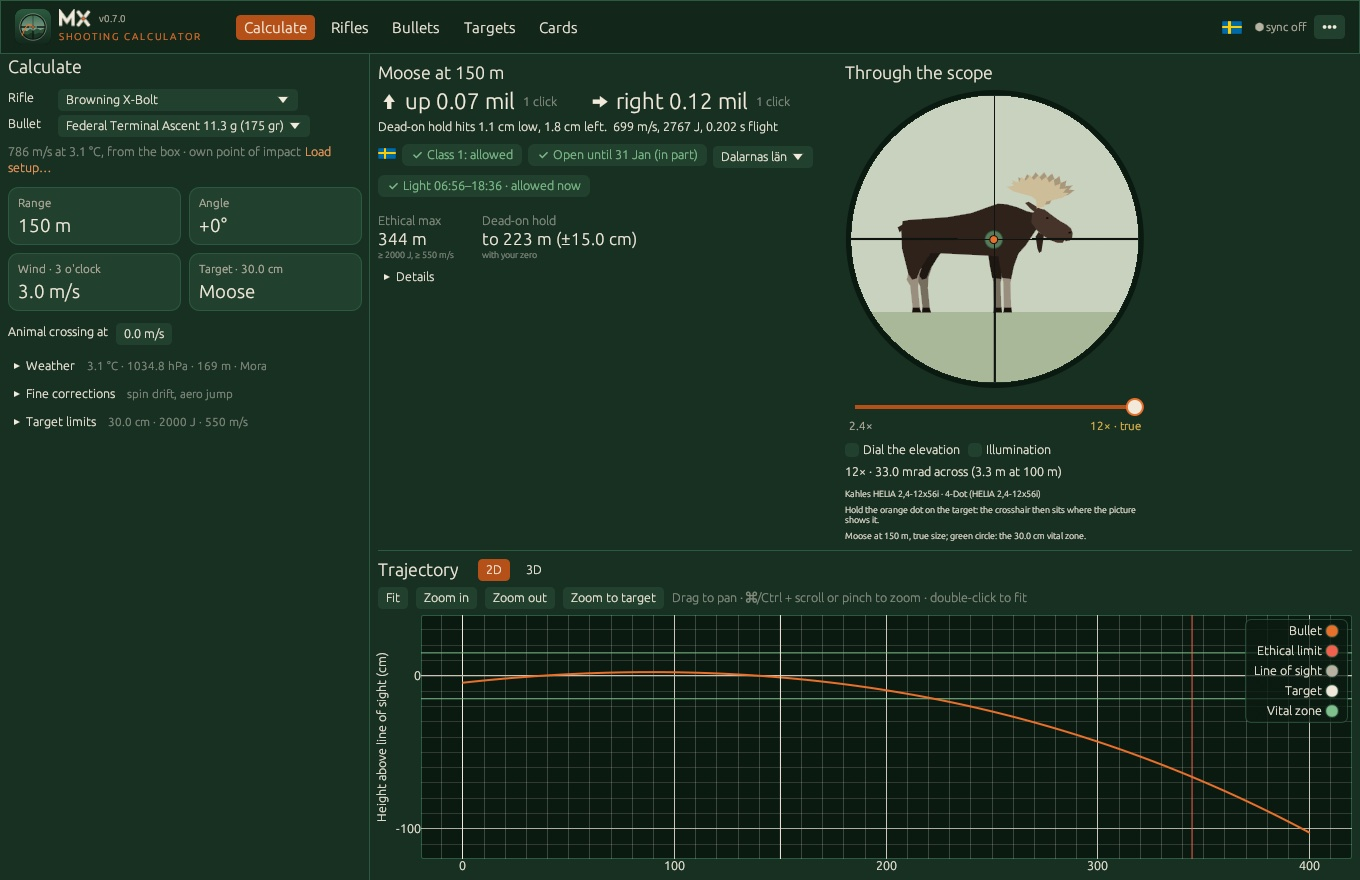
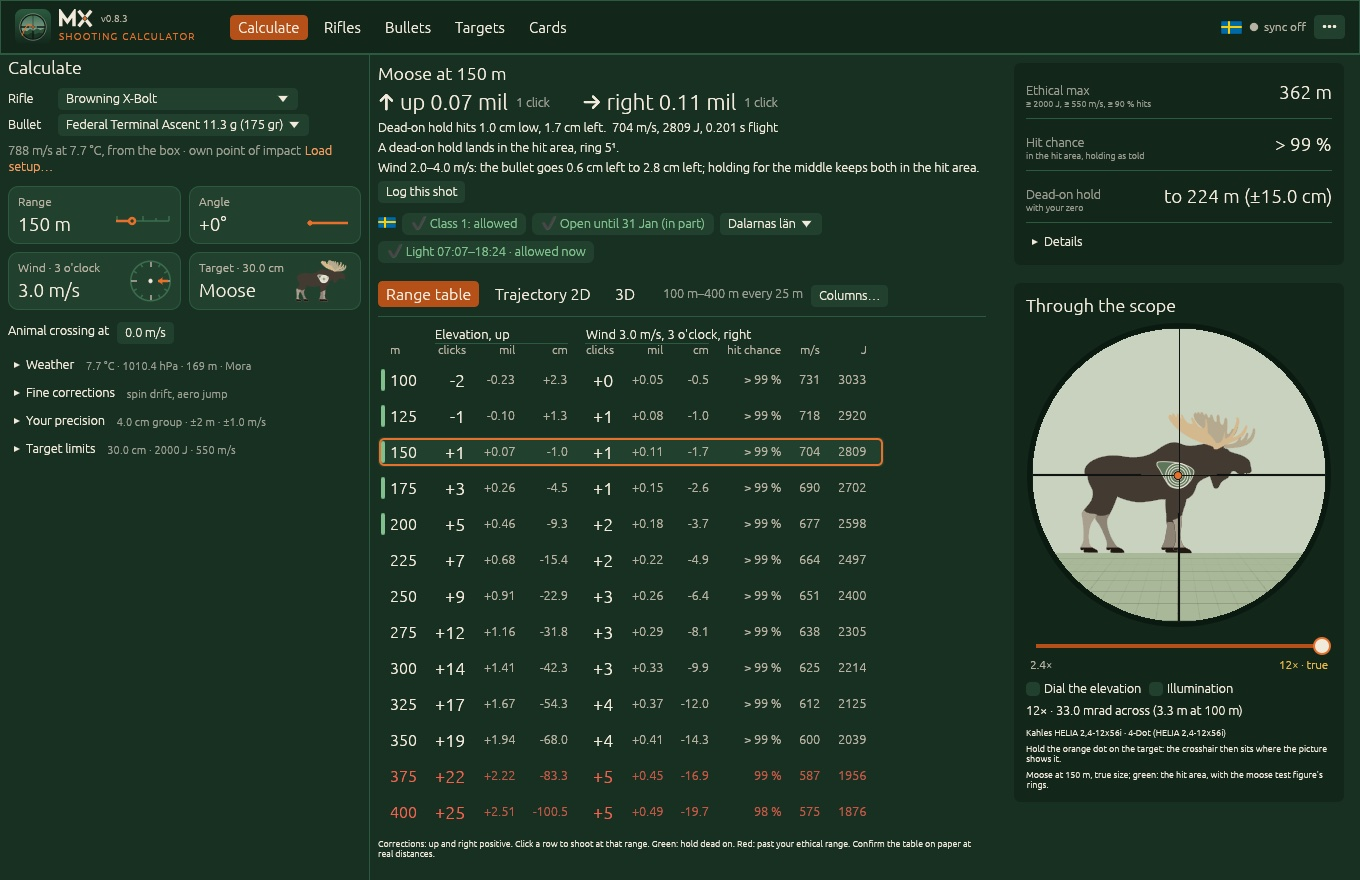
docs: new screenshots and features on the download page
The calculator, phone and dope card screenshots from 0.8.3 (range table, hit chance, the right rail, the ground grid), and the range table, shot log and sync/updates among the features.

diff --git a/site/index.html b/site/index.html
@@ -161,7 +161,7 @@
             phone it runs in the browser and installs to the home screen.</p>
         </div>
         <img class="shot" src="images/calculate.jpg" width="1360" height="880"
-          alt="The calculator: a moose at 150 m, the hold, the legal class, season and shooting light, the ethical range, and the view through the scope">
+          alt="The calculator: a moose at 150 m, the hold, the legal class, season and shooting light, the range table with the hit chance at each range, the ethical range, and the view through the scope">
       </div>
     </div>
 
@@ -239,6 +239,22 @@
             <h3>Your rifles and loads</h3>
             <p>A catalog of ammunition, bullets and scopes; chronograph files from Garmin,
               LabRadar and MagnetoSpeed; truing to a long shot; Strelok Pro import.</p>
+          </div>
+          <div>
+            <h3>Range table and hit chance</h3>
+            <p>Every range at a glance, with your shot's row marked. The chance of hitting the
+              vital zone from your group and how sure you are of the range and wind, and what a
+              gust does to the shot.</p>
+          </div>
+          <div>
+            <h3>Shot log</h3>
+            <p>Each shot with its hold, weather and outcome. Mark where you stood and the
+              bearing, and the app works out where the animal stood and guides you there.</p>
+          </div>
+          <div>
+            <h3>On all your devices</h3>
+            <p>Sync with a key, encrypted on your device, or through your own Google Drive. The
+              desktop apps update themselves if you turn it on.</p>
           </div>
         </div>
       </div>
